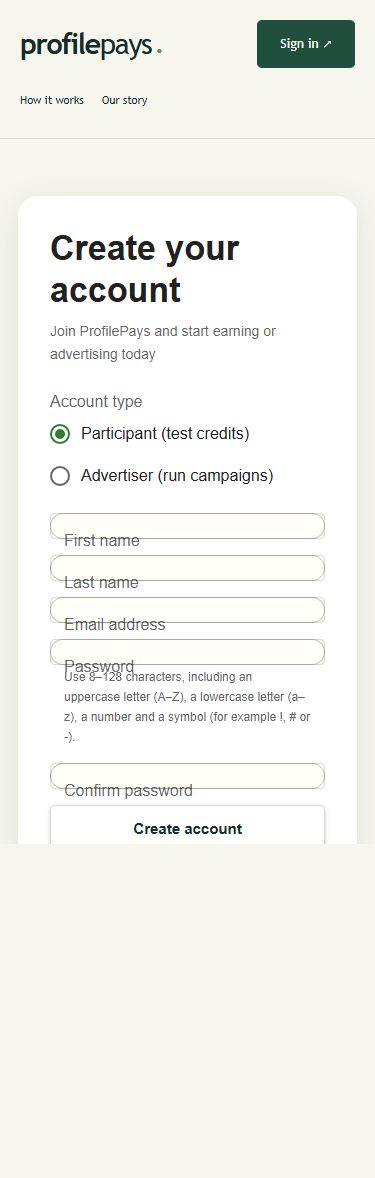
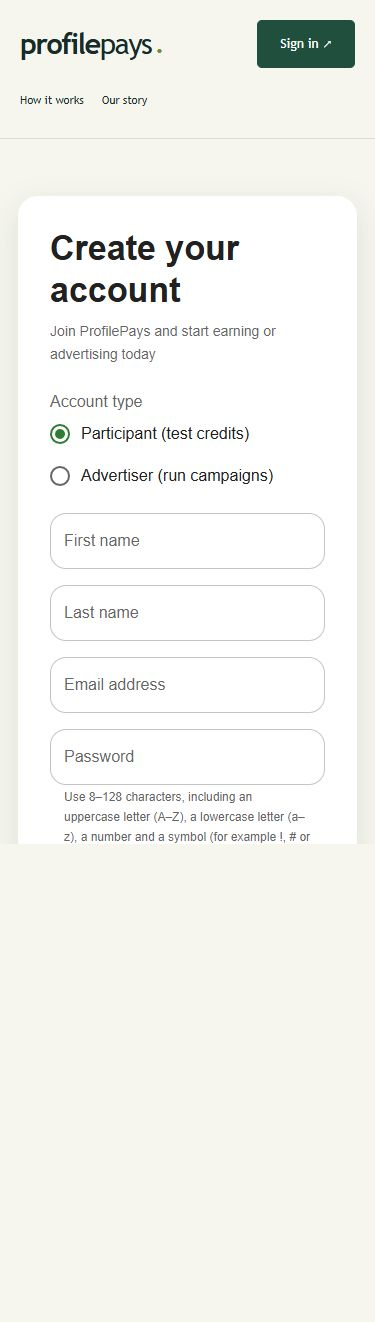
Record final mobile form layout and deployed signup release

diff --git a/docs/SIGNUP-REPAIR.md b/docs/SIGNUP-REPAIR.md
@@ -1,6 +1,6 @@
 # Signup repair — 2026-10-15
 
-Shipped release: `78950f9` at https://profilepays.ultrarag.app/register.
+Shipped release: `cfecac2` at https://profilepays.ultrarag.app/register. Signup behavior is from `78950f9`; the final follow-up corrects the form's input sizing.
 
 The owner reported an unexplained Bad Request on iPhone. The exact input rejected on that phone was not captured and no password was requested. The same failure was reproduced in the real registration form with `José O’Neil` and a password satisfying the old policy. Separate live API probes returned the same generic 400 for email whitespace and incomplete password composition.
 
@@ -11,6 +11,8 @@ Production `ValidationPipe` suppressed all validation reasons. The browser only 
 The form and DTO now use `backend/src/auth/signup-policy.ts` for the same password and name rules. Password guidance appears before submission: 8–128 characters, uppercase and lowercase Latin letters, a number, and a symbol such as `!`, `#`, or `-`. Passwords are never trimmed. Email/name whitespace is normalized; Unicode names and curly apostrophes are accepted. Signup and login both normalize email whitespace.
 
 The production pipe returns field messages without submitted values or DTO objects. The signup form focuses and annotates rejected fields, retains entries, and displays useful duplicate-account, network and rate-limit feedback. Error arrays become readable text. Public administrator creation and unknown privilege fields remain rejected.
+
+Final visual inspection found `.pp-main input` styles overriding MUI's box sizing and padding, collapsing input fields to 26px. Dashboard rules now exclude MUI input, radio and button components. This applies to both registration and login. The mobile layout retest records actual input heights and document width; the earlier screenshot showing the cramped fields was not accepted as the final handoff.
 
 ## Verification and escape analysis
 

diff --git a/docs/HOSTED-PILOT.md b/docs/HOSTED-PILOT.md
@@ -6,9 +6,9 @@ Deployed 2026-10-15 on existing Spark-1 infrastructure. No new paid service was 
 
 ## Running release
 
-- App source: `78950f9`, built from a Git archive using `docker/Dockerfile.pilot`. See [signup repair](SIGNUP-REPAIR.md) for the subsequent owner-reported signup correction.
+- App source: `cfecac2`, built from a Git archive using `docker/Dockerfile.pilot`. See [signup repair](SIGNUP-REPAIR.md) for the subsequent owner-reported signup correction.
 - Compose project: `profilepays-pilot`; app port `127.0.0.1:8941`; database has no host-published port.
-- Deployment root: `/home/rblake2320/profilepays-pilot`; release checkout: `releases/78950f9`.
+- Deployment root: `/home/rblake2320/profilepays-pilot`; release checkout: `releases/cfecac2`.
 - Private `pilot.env` resides outside release directories, mode 0600. Never commit it or print resolved Compose configuration.
 - Dedicated Cloudflare Tunnel `profilepays-pilot`, with systemd unit `profilepays-tunnel.service`, enabled at boot. Existing tunnels were not modified.
 - Docker restart policies preserve service operation; persistent PostgreSQL volume preserves campaigns, accounts, placements and receipts.
